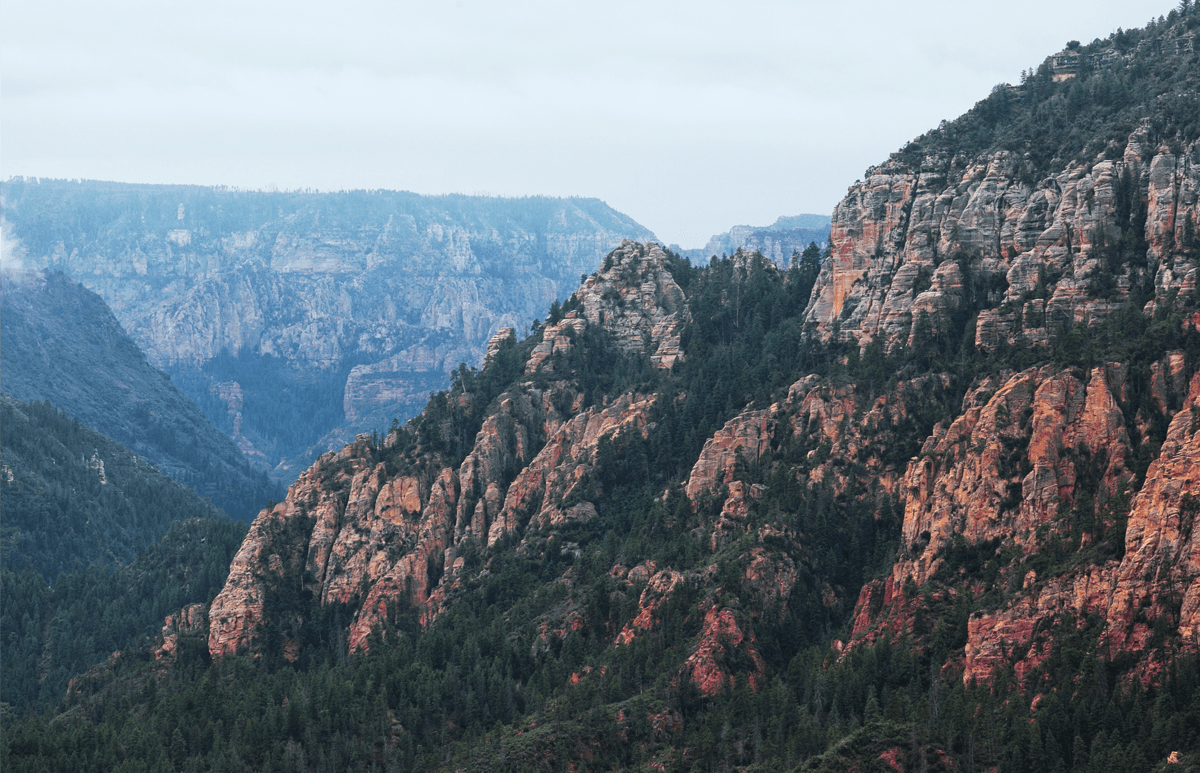
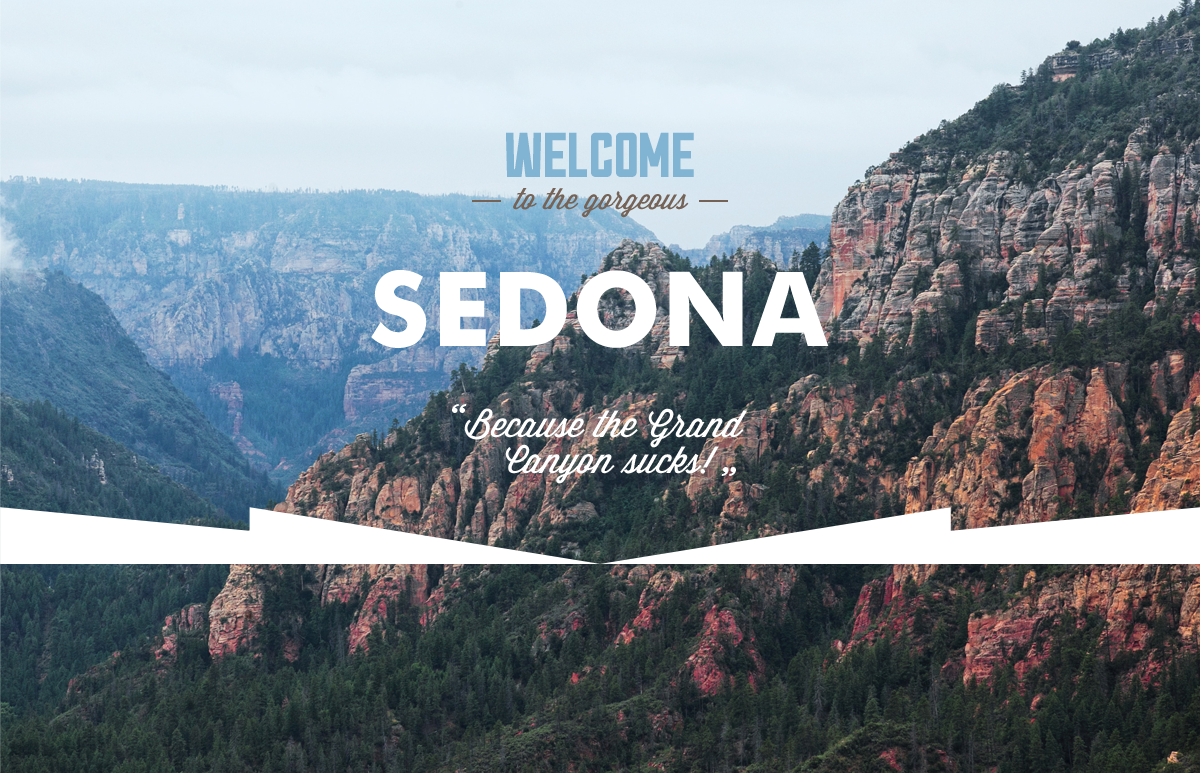
09042018

diff --git a/index.html b/index.html
@@ -19,9 +19,6 @@
         <div class="menu-map"><a href="statemap.html">КАРТА ШТАТА</a></div>
         <div class="menu-hotels"><a href="catalog.html">ГОСТИНИЦЫ</a></div>
       </div>
-      <div class="welcom"><img src="img/sedona_all.png"></div>
-      <div class="welcom1"><img src="img/shape.png"></div>
-
       <div class="advert">
         <div class="advert-title">Седона - небольшой городок в Аризоне,<br> заслуживающий большего!</div>
         <div class="advert-text">Рассмотрим 5 причин, по которым седона круче, чем гранд каньон</div>

diff --git a/css/style.css b/css/style.css
@@ -125,9 +125,9 @@ flex-direction: column;
 position: relative;
 background-color: #ffffff;
 left: 0px;
-top: 500px;
+top: 523px;
 width: 1200px;
-height: 142px;
+height: 158px;
 z-index: 100;
 }
 
